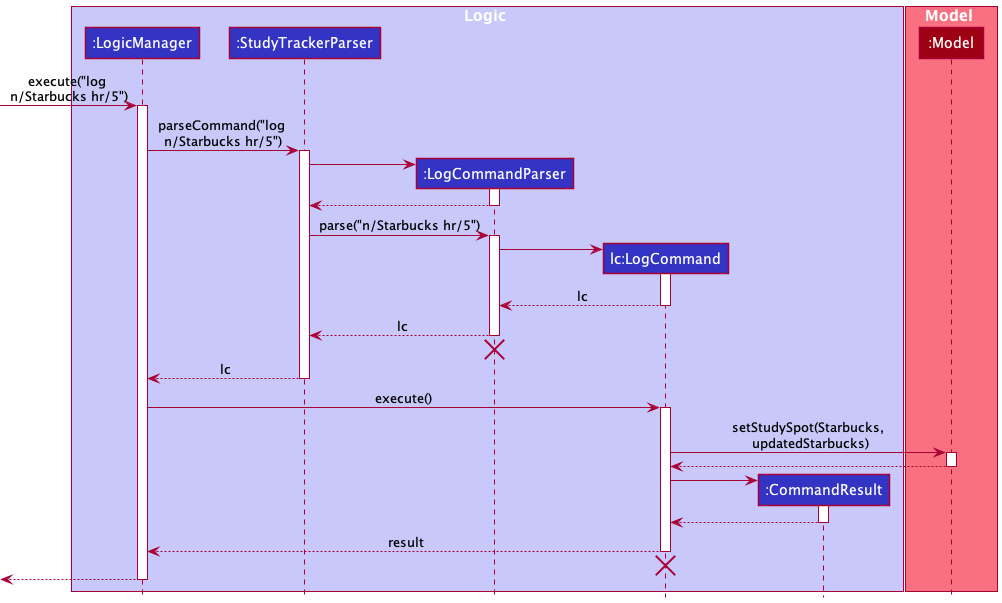
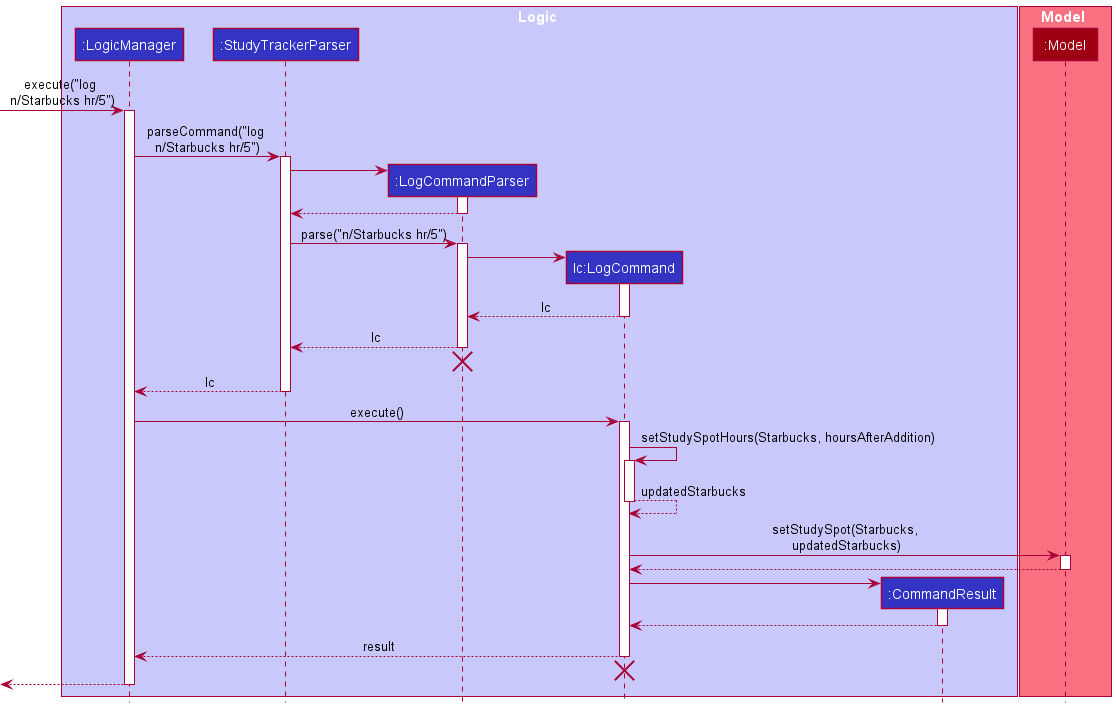
Update sequence diagram for `log -ra`, and correct sequence diagrams

Changed region(s): [[0.0, 0.0, 1.0, 0.9851], [0.3713, 0.6567, 0.4331, 0.6866], [0.5569, 0.4776, 0.5878, 0.5075]]

diff --git a/src/main/java/seedu/address/logic/commands/LogCommand.java b/src/main/java/seedu/address/logic/commands/LogCommand.java
@@ -94,7 +94,7 @@ public class LogCommand extends Command {
 
         try {
             StudiedHours newHours = studySpotToAddHours.getStudiedHours().addHours(studiedHours);
-            StudySpot updatedStudySpot = addHoursToStudySpot(studySpotToAddHours, newHours);
+            StudySpot updatedStudySpot = setStudySpotHours(studySpotToAddHours, newHours);
 
             model.setStudySpot(studySpotToAddHours, updatedStudySpot);
             model.updateFilteredStudySpotList(Model.PREDICATE_SHOW_ALL_STUDYSPOTS);
@@ -107,7 +107,7 @@ public class LogCommand extends Command {
 
     private CommandResult handleReset(Model model, StudySpot studySpot) {
         StudiedHours newHours = new StudiedHours("0");
-        StudySpot newStudySpot = addHoursToStudySpot(studySpot, newHours);
+        StudySpot newStudySpot = setStudySpotHours(studySpot, newHours);
         model.setStudySpot(studySpot, newStudySpot);
         model.updateFilteredStudySpotList(Model.PREDICATE_SHOW_ALL_STUDYSPOTS);
         return new CommandResult(String.format(MESSAGE_SUCCESS_RESET, name), true, false, false);
@@ -116,7 +116,7 @@ public class LogCommand extends Command {
     private CommandResult handleResetAll(Model model) {
         for (StudySpot studySpot: model.getFullList()) {
             StudiedHours newHours = new StudiedHours("0");
-            StudySpot newStudySpot = addHoursToStudySpot(studySpot, newHours);
+            StudySpot newStudySpot = setStudySpotHours(studySpot, newHours);
             model.setStudySpot(studySpot, newStudySpot);
         }
         model.updateFilteredStudySpotList(Model.PREDICATE_SHOW_ALL_STUDYSPOTS);
@@ -124,15 +124,15 @@ public class LogCommand extends Command {
     }
 
     private CommandResult handleOverride(Model model, StudySpot studySpot, StudiedHours studiedHours) {
-        StudySpot newStudySpot = addHoursToStudySpot(studySpot, studiedHours);
+        StudySpot newStudySpot = setStudySpotHours(studySpot, studiedHours);
         model.setStudySpot(studySpot, newStudySpot);
         model.updateFilteredStudySpotList(Model.PREDICATE_SHOW_ALL_STUDYSPOTS);
         return new CommandResult(String.format(MESSAGE_SUCCESS_OVERRIDE, studiedHours, studySpot.getName()),
                 true, false, false);
     }
 
-    private static StudySpot addHoursToStudySpot(StudySpot studySpotToAddHours,
-                                                 StudiedHours hoursAfterAddition) {
+    private static StudySpot setStudySpotHours(StudySpot studySpotToAddHours,
+                                               StudiedHours hoursAfterAddition) {
         Name name = studySpotToAddHours.getName();
         Rating rating = studySpotToAddHours.getRating();
         OperatingHours operatingHours = studySpotToAddHours.getOperatingHours();

diff --git a/docs/DeveloperGuide.md b/docs/DeveloperGuide.md
@@ -309,7 +309,7 @@ is no integer overflow.
  together, returning a new `StudiedHour`. It also ensures that there is no integer overflow.
 
 `LogCommand.java` is responsible for changing the `StudiedHours` field in a given `StudySpot` (given by its `Name`). 
-It has 3 different ways of doing so:
+It has 4 different ways of doing so:
 - By default, it adds the given input value to the current value.
     - E.g. If the current StudiedHours is 4, and the user logs 3 more hours, it adds 4 and 3 together to give 7 hours.
 - By using the `-o` flag in the input, it **overrides** the original value and replaces it with the given value.
@@ -317,10 +317,12 @@ It has 3 different ways of doing so:
       and replace it with 3.
 - By using the `-r` flag in the input, it **resets** the original value to 0.
     - E.g. If the current StudiedHours is 4, and the user logs with the `-r` flag, the value will be reset to 0.
+- By using the `-ra` flag in the input, it **resets** the original value of ALL `StudySpot`'s to 0.
+    - E.g. If the user logs with the `-ra` flag, all values will be reset to 0.
     
 Given below is an example usage scenario and how the Log feature behaves at each step:
 
-1. The user launches the application. The program loads with the given `StudySpots`.
+1. The user launches the application. The program loads with the given `StudySpot`'s.
 
 ![PartialStudyTrackerDiagram](images/PartialStudyTracker.png)
 
@@ -332,6 +334,8 @@ Given below is an example usage scenario and how the Log feature behaves at each
 1. The user realises he made a mistake, and executes `log -o n/Starbucks UTown hr/3`, which hard changes the 
 `StudiedHours` to 3.
    
+1. The user wants to reset all `StudiedHours` to 0, so executes the command `log -ra`.
+   
 The following sequence diagram demonstrates the flow from the given input:
 
 ![LogSequenceDiagram](images/LogSequenceDiagram.png)
@@ -339,6 +343,8 @@ The following sequence diagram demonstrates the flow from the given input:
 ![LogSequenceDiagramOverride](images/LogSequenceDiagramWithFlagO.png)
 
 Sequence diagram for `-r` flag is the same as `-o` but with handleReset() instead of handleOverride()
+
+![LogSequenceDiagramResetAll](images/LogSequenceDiagramWithFlagRA.png)
 
 The following activity diagram summarizes what happens when a user executes a new command:
 
